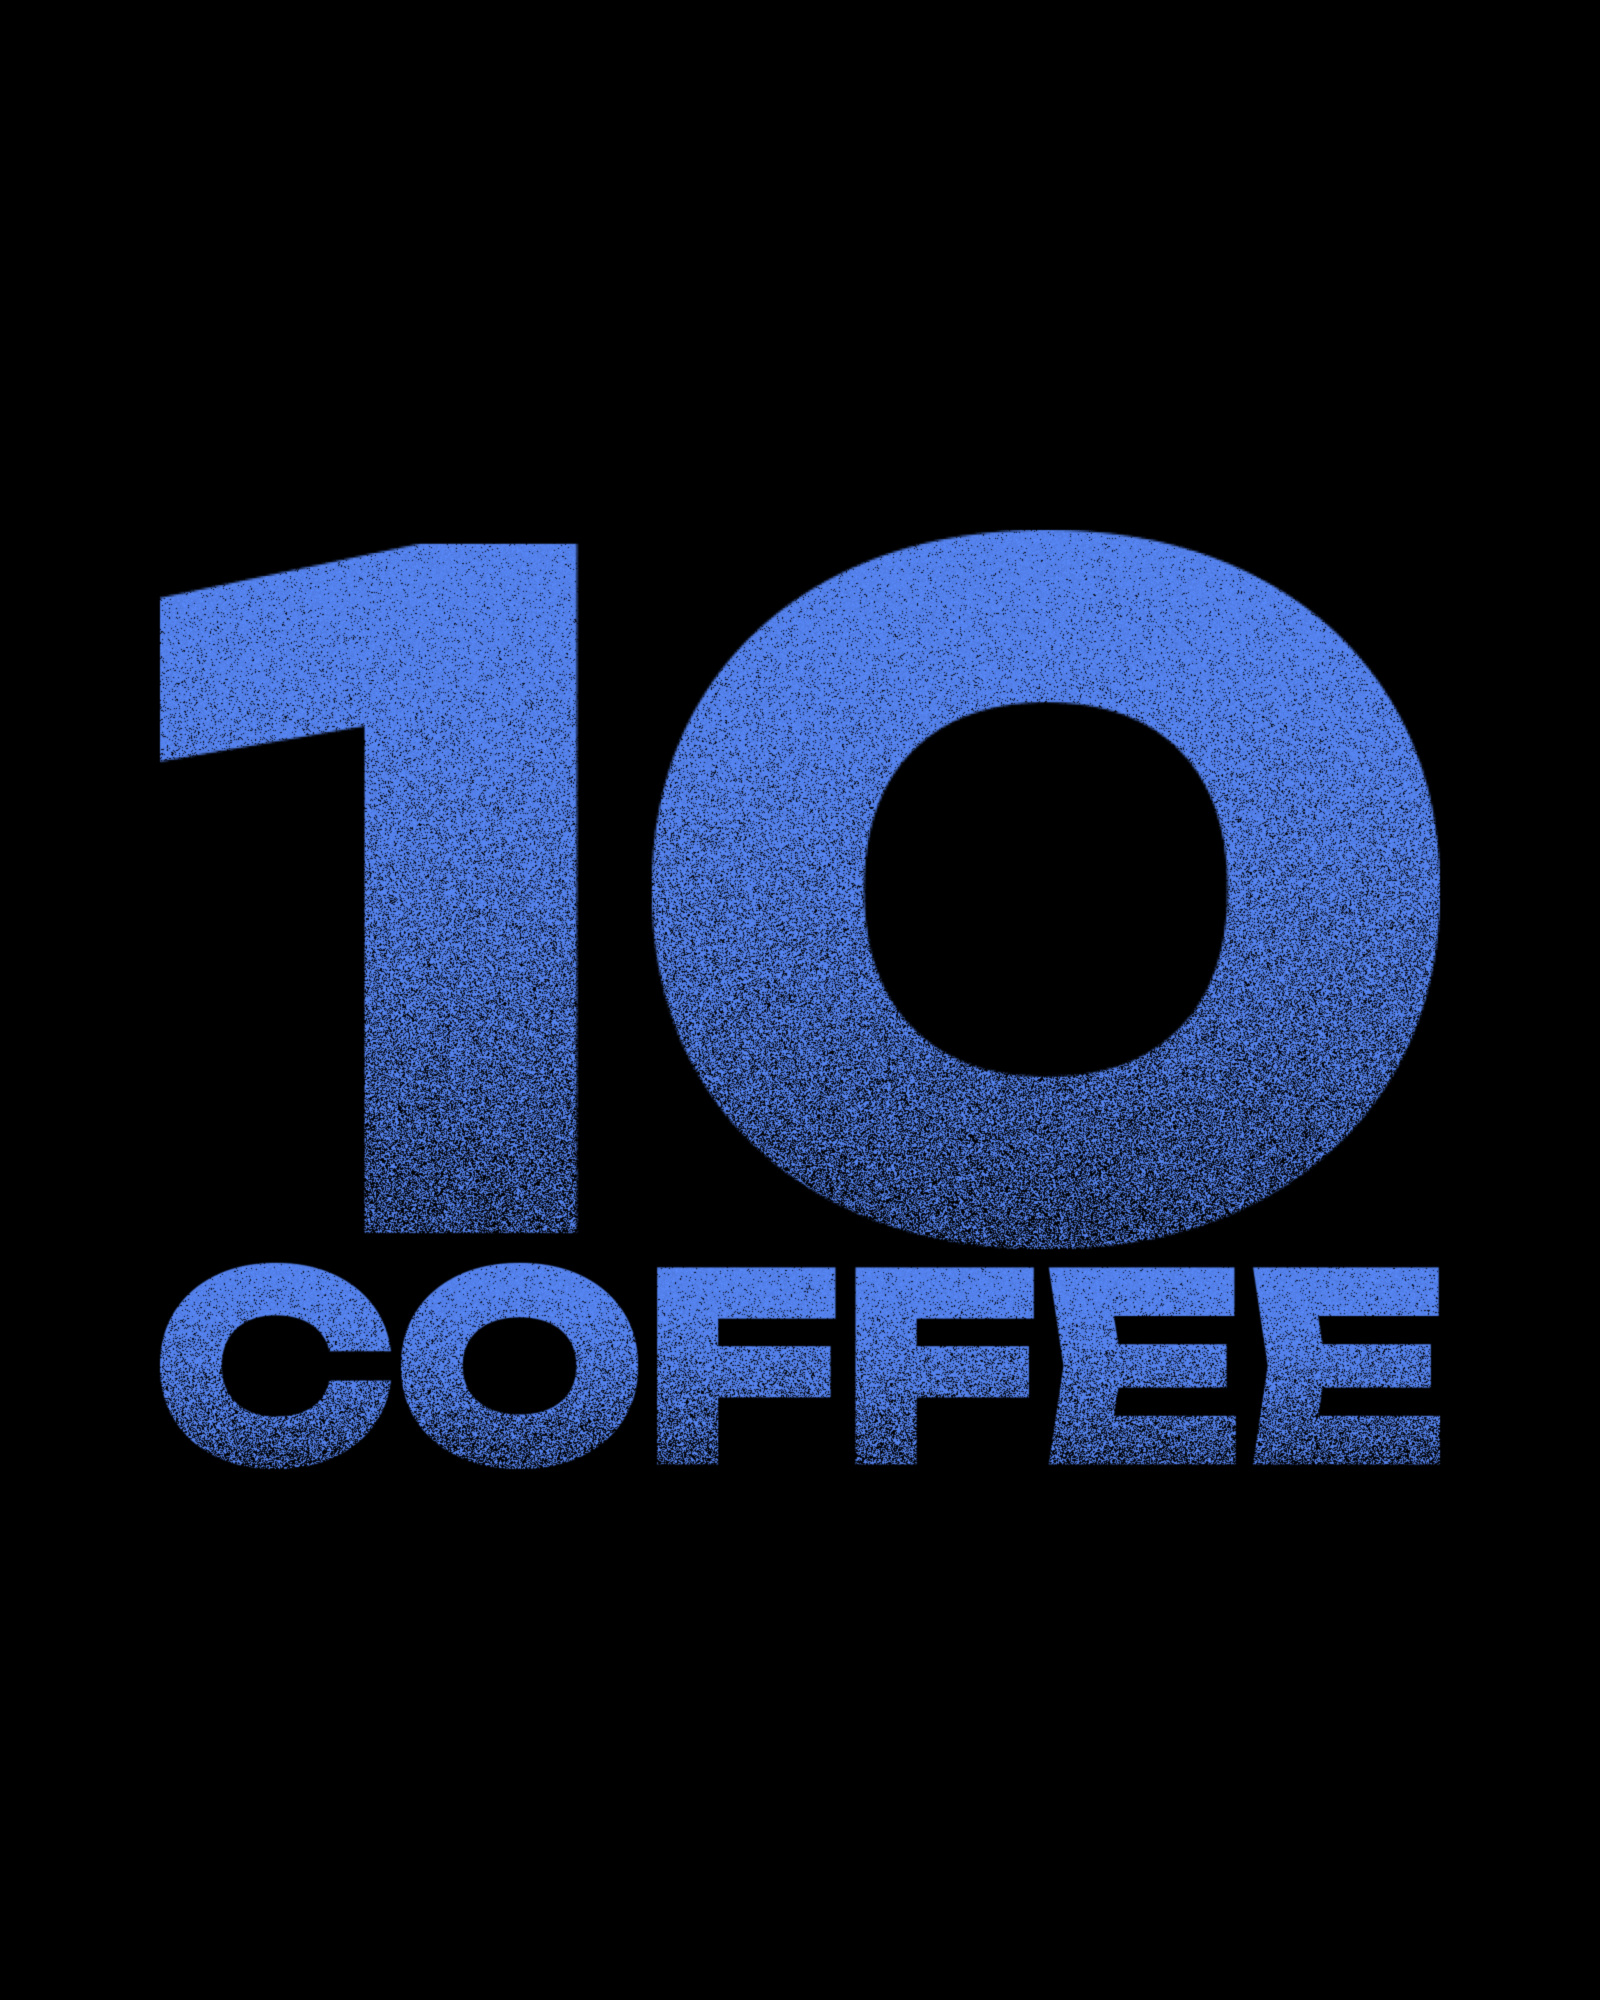
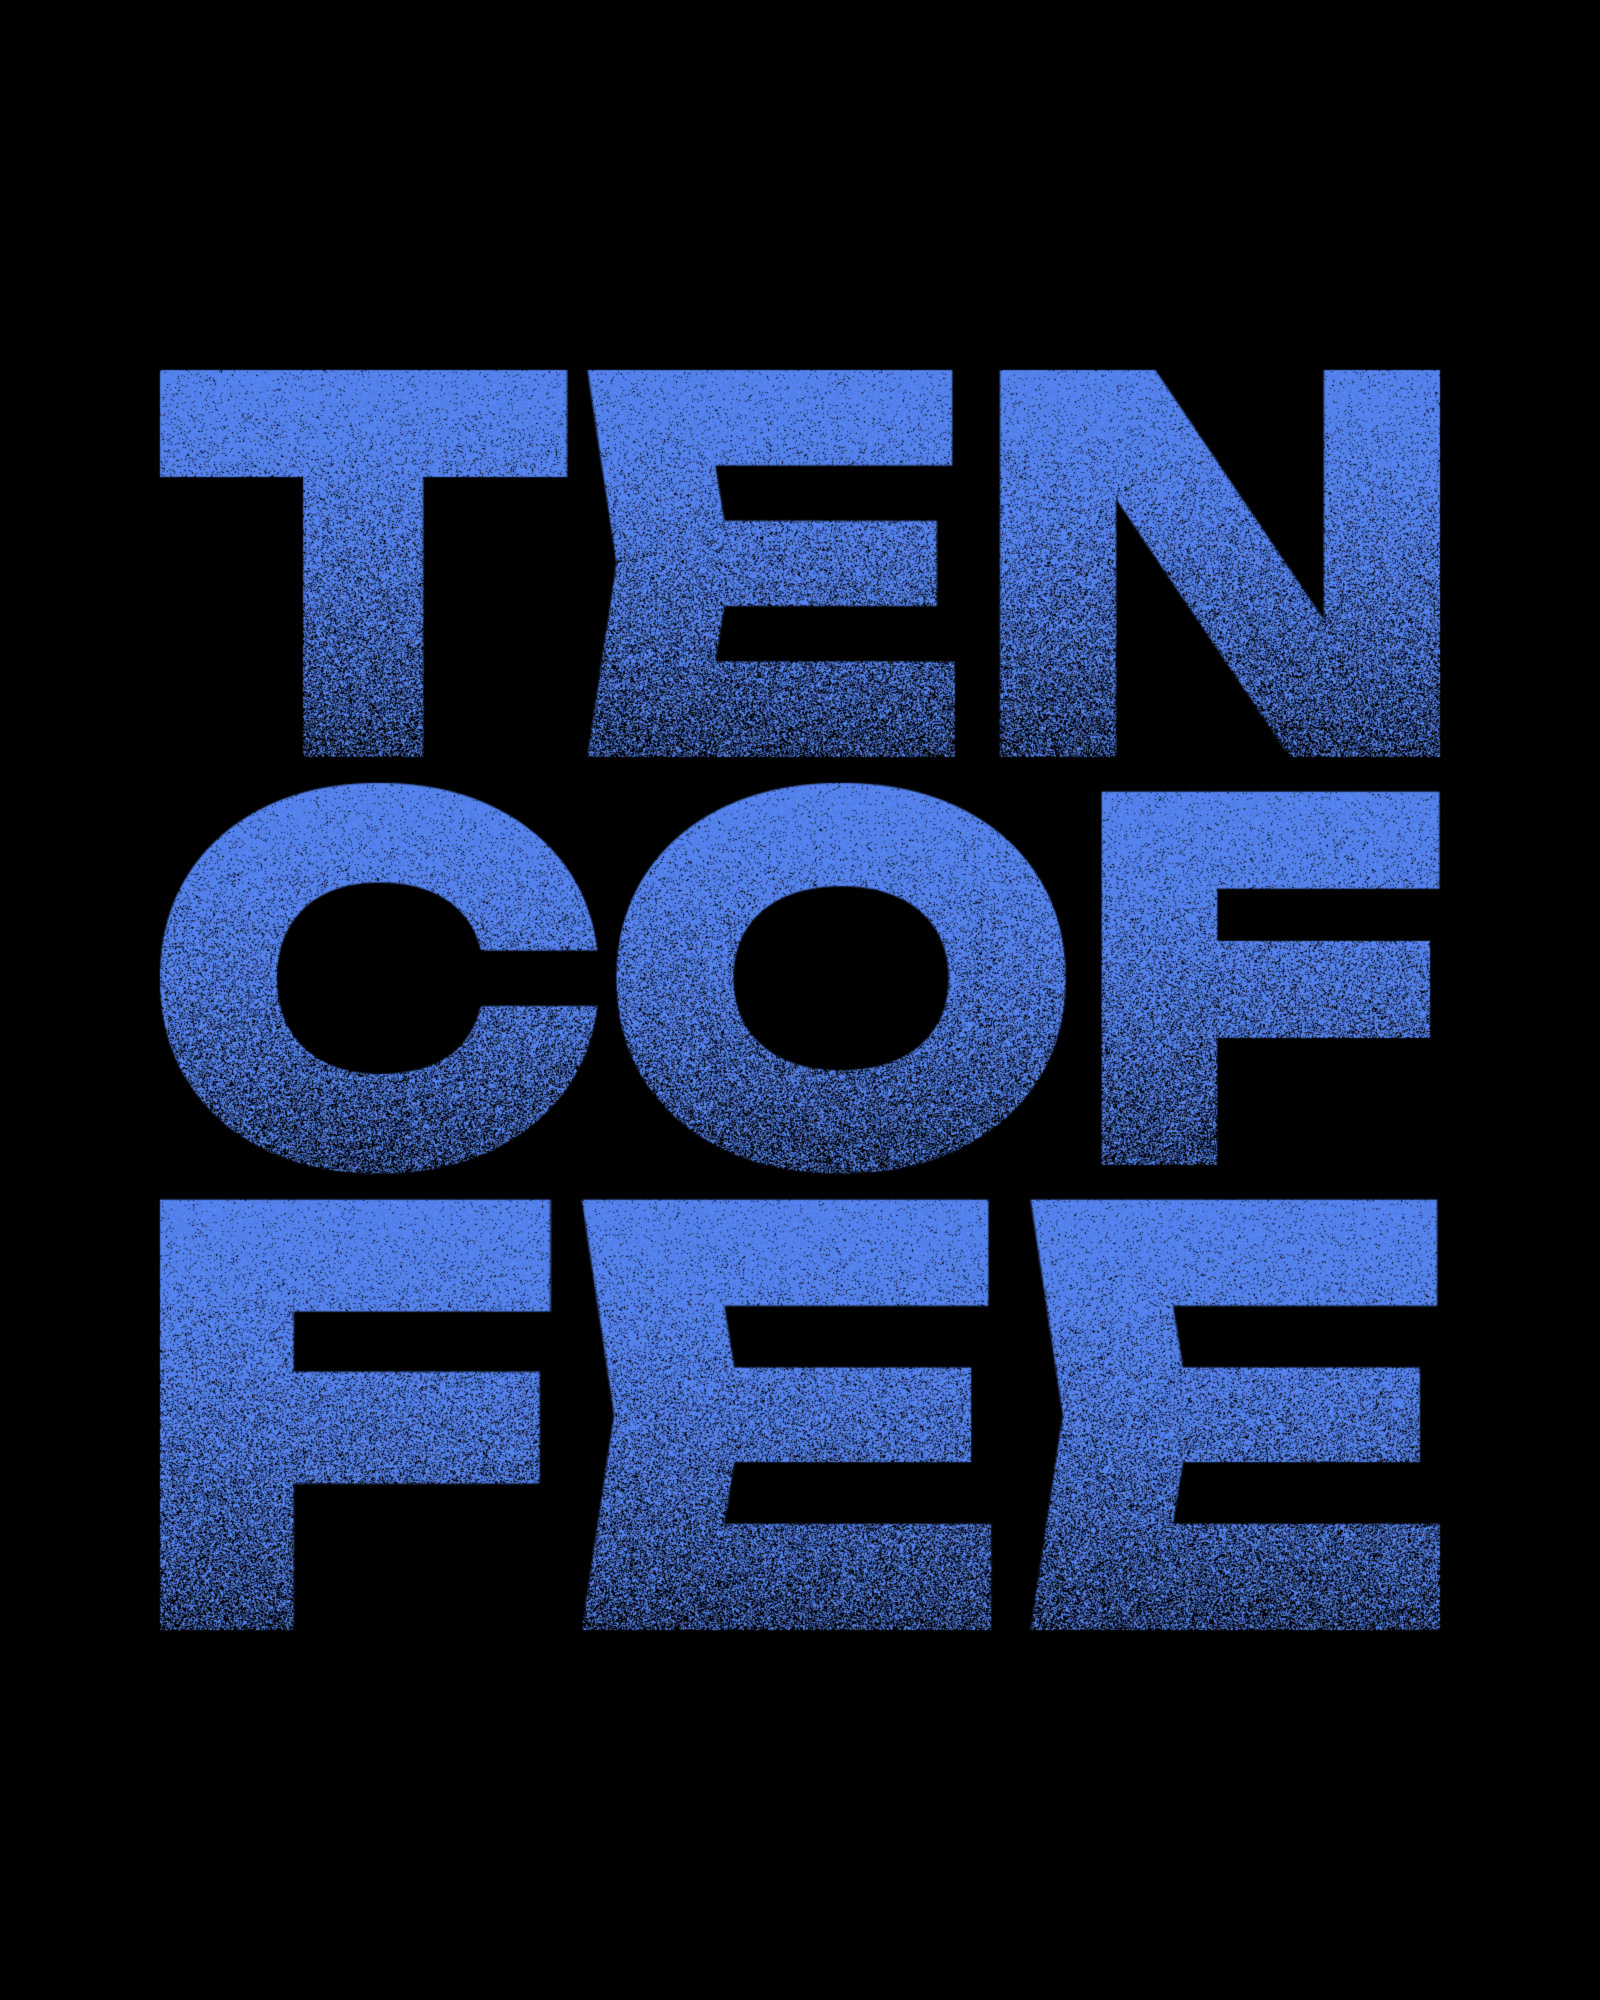
Explorations: 10 Coffee as TEN / COF / FEE, three equal rows in one block
Claude-Session: https://claude.ai/code/session_0125CzzT5S3G4ujjDNa4kPYe

diff --git a/lib/explorations.ts b/lib/explorations.ts
@@ -21,7 +21,7 @@ export const intro: Localized = {
 // Filled spaces, by position (1 = top left, 56 = bottom right on desktop).
 const filled: Record<number, Exploration> = {
   // Draft: the freim logo as textured 3D pieces, printed on a white tee, on black (to be redone on a blank mockup).
-  // 10 Coffee, Tari's packaging brand: Unbounded, fine print grain, cobalt #5B8CFF (6.6:1) on #000.
+  // 10 Coffee, Tari's packaging brand, as TEN / COF / FEE: Unbounded, fine print grain, cobalt #5B8CFF (6.6:1) on #000.
   55: { src: "/explorations/10-coffee.jpg", label: "10COFFEE_01.JPG" },
   56: { src: "/explorations/freim-tee.jpg", label: "FREIM_01.JPG" },
 }
